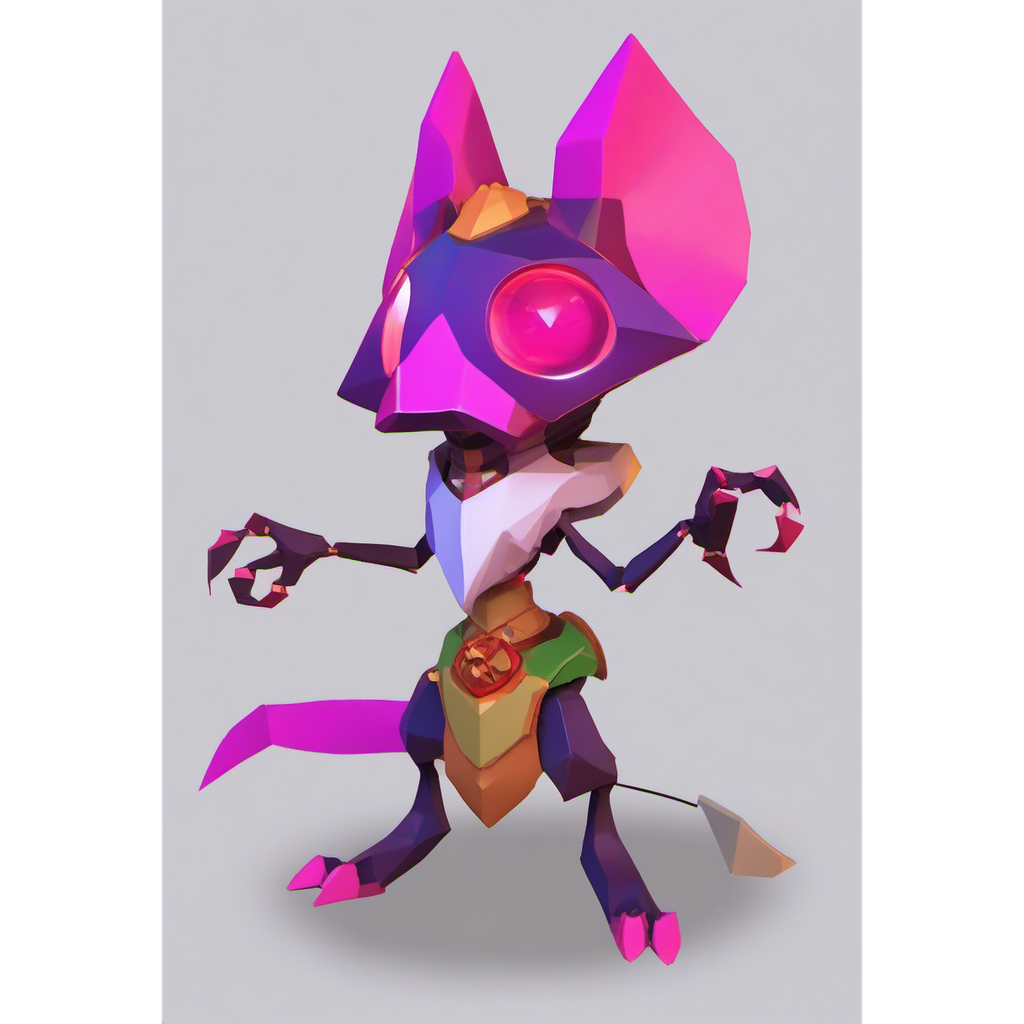
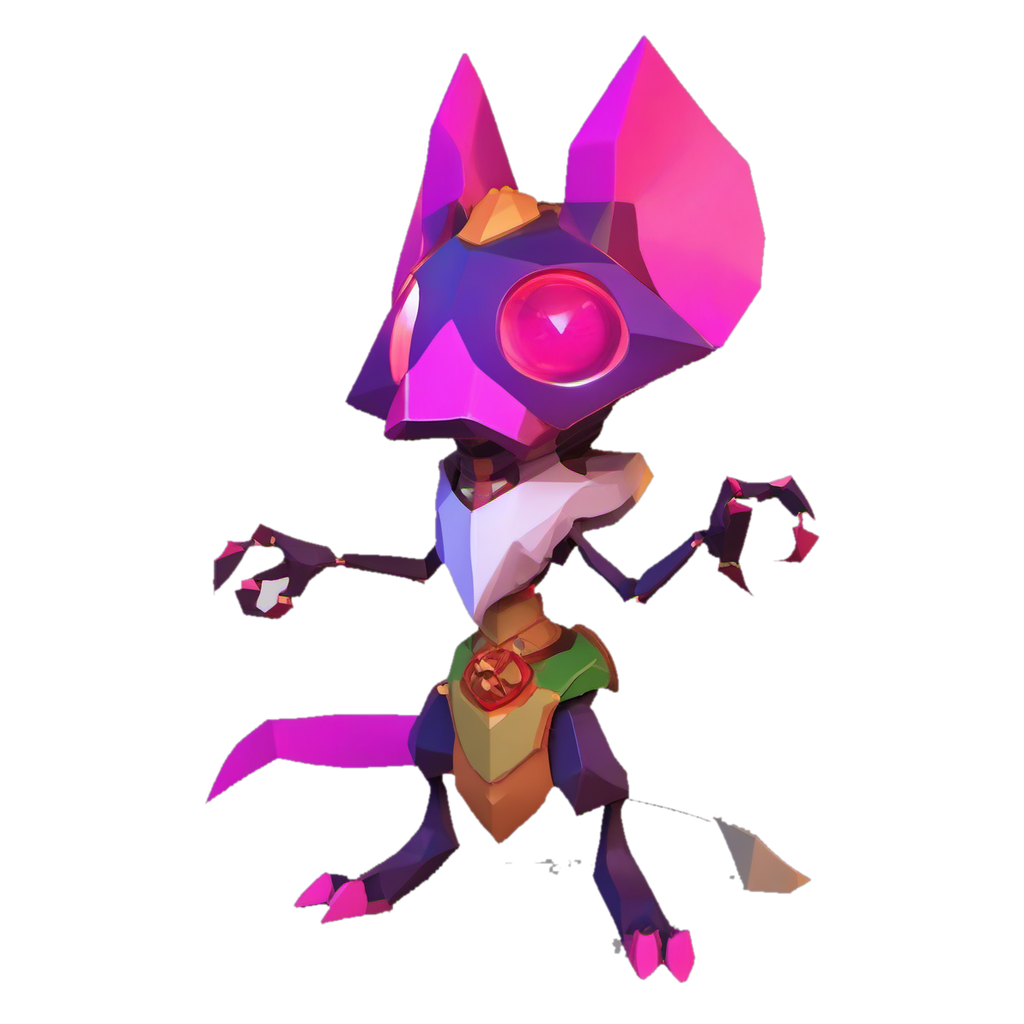
M13a: fix character sprite keying (green-slime, skeleton, goblins, bone-rat, red-slime, portrait) + tone corrupted-grass floor

diff --git a/Tools/AssetGeneration/generate_assets.py b/Tools/AssetGeneration/generate_assets.py
@@ -257,6 +257,13 @@ def alpha_key_smart(img: Image.Image) -> Image.Image:
     detail that doesn't reach the frame edge.
     """
     rgb = img.convert("RGB")
+    # NOTE: unioning the magenta + flat candidate masks BEFORE the border flood
+    # fills split backdrops better, but is too aggressive for DARK/low-saturation
+    # subjects (it walks the flood through a black silhouette and erases it, e.g.
+    # skeleton-archer). Keep the safe separate-mask OR: each candidate is
+    # border-connected independently, so this is strictly additive and never
+    # eats interior subject detail. Assets with a stubborn split/off-colour
+    # backdrop get a targeted per-asset key instead.
     magenta_mask = _border_connected_mask(_magenta_candidate_mask(rgb))
     flat_mask = _border_connected_mask(_flat_background_candidate_mask(rgb))
     bg_mask = magenta_mask | flat_mask

diff --git a/ASSET_MANIFEST.md b/ASSET_MANIFEST.md
@@ -4,43 +4,43 @@ Every generated asset: prompt, source file, target UE path, usage. Populated at 
 
 | Asset | Category | Status | QA | Prompt (short) | Source PNG | UE path | Used by |
 |---|---|---|---|---|---|---|---|
-| campfire-core | buildings | generated | - | a cozy stone-ringed campfire hub structure with warm ember glow, sm... | GeneratedAssets/staging/buildings/campfire-core.png | /Game/Emberbound/Generated/Buildings/T_CampfireCore | CampfireCore building billboard and camp building panel header |
-| expedition-portal | buildings | generated | - | a mystical stone archway portal crackling with soft ember-orange en... | GeneratedAssets/staging/buildings/expedition-portal.png | /Game/Emberbound/Generated/Buildings/T_ExpeditionPortal | Expedition portal billboard |
-| grim-forge | buildings | generated | - | a small dark-comedy blacksmith forge structure, glowing furnace, cr... | GeneratedAssets/staging/buildings/grim-forge.png | /Game/Emberbound/Generated/Buildings/T_GrimForge | Grim Forge camp building billboard and panel header |
-| monster-pen | buildings | generated | - | a rickety wooden fenced pen enclosure for captured small monsters, ... | GeneratedAssets/staging/buildings/monster-pen.png | /Game/Emberbound/Generated/Buildings/T_MonsterPen | Monster Pen camp building billboard and panel header |
-| ritual-circle | buildings | generated | - | a stone ritual circle platform with glowing ember runes etched into... | GeneratedAssets/staging/buildings/ritual-circle.png | /Game/Emberbound/Generated/Buildings/T_RitualCircle | Ritual Circle camp building billboard and panel header |
-| watchtower | buildings | generated | - | a small crooked wooden watchtower structure with a lookout platform... | GeneratedAssets/staging/buildings/watchtower.png | /Game/Emberbound/Generated/Buildings/T_Watchtower | Watchtower camp building billboard and panel header |
-| bone-rat | characters | generated | - | solo, one creature only, a small skeletal rat monster, bare bones h... | GeneratedAssets/staging/characters/bone-rat.png | /Game/Emberbound/Generated/Characters/T_BoneRat | BoneRat enemy billboard |
-| goblin-archer | characters | generated | - | solo single-pose full-body illustration, one figure only, of a scra... | GeneratedAssets/staging/characters/goblin-archer.png | /Game/Emberbound/Generated/Characters/T_GoblinArcher | GoblinArcher enemy billboard |
-| goblin-stabber | characters | generated | - | solo single-pose full-body illustration, one figure only, of a scra... | GeneratedAssets/staging/characters/goblin-stabber.png | /Game/Emberbound/Generated/Characters/T_GoblinStabber | GoblinStabber enemy billboard |
-| green-slime | characters | generated | - | solo, one creature only, a small round green jelly slime creature w... | GeneratedAssets/staging/characters/green-slime.png | /Game/Emberbound/Generated/Characters/T_GreenSlime | GreenSlime enemy billboard |
-| red-slime | characters | generated | - | solo, one creature only, a small round red jelly slime creature wit... | GeneratedAssets/staging/characters/red-slime.png | /Game/Emberbound/Generated/Characters/T_RedSlime | RedSlime enemy billboard |
-| rift-archer-full | characters | generated | - | solo single-pose full-body illustration, one figure only, of a youn... | GeneratedAssets/staging/characters/rift-archer-full.png | /Game/Emberbound/Generated/Characters/T_RiftArcherFull | Player character billboard |
-| rift-archer-portrait | characters | generated | - | solo close-up portrait bust, one figure only, of a young isekai her... | GeneratedAssets/staging/characters/rift-archer-portrait.png | /Game/Emberbound/Generated/Characters/T_RiftArcherPortrait | Run result header portrait |
-| skeleton-archer | characters | generated | - | solo single-pose full-body illustration, one figure only, of a lank... | GeneratedAssets/staging/characters/skeleton-archer.png | /Game/Emberbound/Generated/Characters/T_SkeletonArcher | Imported and verified; reserved for skeleton enemy content |
-| slime-companion | characters | generated | - | solo, one creature only, a small round translucent blue slime creat... | GeneratedAssets/staging/characters/slime-companion.png | /Game/Emberbound/Generated/Characters/T_SlimeCompanion | Companion slime actor sprite |
-| tutorial-dragon | characters | generated | - | solo, one creature only, a small chibi baby dragon mentor character... | GeneratedAssets/staging/characters/tutorial-dragon.png | /Game/Emberbound/Generated/Characters/T_TutorialDragon | Tutorial Dragon boss billboard |
-| camp-dirt | environment | generated | - | seamless tileable stylized packed dirt camp ground texture, low-pol... | GeneratedAssets/staging/environment/camp-dirt.png | /Game/Emberbound/Generated/Environment/T_CampDirt | Runtime camp dirt floor material instance |
-| corrupted-grass | environment | generated | - | seamless tileable stylized corrupted dark grass ground texture, low... | GeneratedAssets/staging/environment/corrupted-grass.png | /Game/Emberbound/Generated/Environment/T_CorruptedGrass | Runtime expedition floor material instance |
-| corruption-decal | environment | generated | - | seamless tileable stylized dark corruption ground decal texture, cr... | GeneratedAssets/staging/environment/corruption-decal.png | /Game/Emberbound/Generated/Environment/T_CorruptionDecal | M_Corruption_Decal texture parameter |
+| campfire-core | buildings | generated | - | a cozy stone-ringed campfire hub structure with warm ember glow, sm... | GeneratedAssets/staging/buildings/campfire-core.png | /Game/Emberbound/Generated/Buildings/T_CampfireCore | Camp building sprite/icon source texture |
+| expedition-portal | buildings | generated | - | a mystical stone archway portal crackling with soft ember-orange en... | GeneratedAssets/staging/buildings/expedition-portal.png | /Game/Emberbound/Generated/Buildings/T_ExpeditionPortal | Camp building sprite/icon source texture |
+| grim-forge | buildings | generated | - | a small dark-comedy blacksmith forge structure, glowing furnace, cr... | GeneratedAssets/staging/buildings/grim-forge.png | /Game/Emberbound/Generated/Buildings/T_GrimForge | Camp building sprite/icon source texture |
+| monster-pen | buildings | generated | - | a rickety wooden fenced pen enclosure for captured small monsters, ... | GeneratedAssets/staging/buildings/monster-pen.png | /Game/Emberbound/Generated/Buildings/T_MonsterPen | Camp building sprite/icon source texture |
+| ritual-circle | buildings | generated | - | a stone ritual circle platform with glowing ember runes etched into... | GeneratedAssets/staging/buildings/ritual-circle.png | /Game/Emberbound/Generated/Buildings/T_RitualCircle | Camp building sprite/icon source texture |
+| watchtower | buildings | generated | - | a small crooked wooden watchtower structure with a lookout platform... | GeneratedAssets/staging/buildings/watchtower.png | /Game/Emberbound/Generated/Buildings/T_Watchtower | Camp building sprite/icon source texture |
+| bone-rat | characters | generated | - | solo, one creature only, a small skeletal rat monster, bare bones h... | GeneratedAssets/staging/characters/bone-rat.png | /Game/Emberbound/Generated/Characters/T_BoneRat | Character billboard sprite / portrait source texture |
+| goblin-archer | characters | generated | - | solo single-pose full-body illustration, one figure only, of a scra... | GeneratedAssets/staging/characters/goblin-archer.png | /Game/Emberbound/Generated/Characters/T_GoblinArcher | Character billboard sprite / portrait source texture |
+| goblin-stabber | characters | generated | - | solo single-pose full-body illustration, one figure only, of a scra... | GeneratedAssets/staging/characters/goblin-stabber.png | /Game/Emberbound/Generated/Characters/T_GoblinStabber | Character billboard sprite / portrait source texture |
+| green-slime | characters | generated | - | a single cute chubby round slime creature, bright emerald grass-gre... | GeneratedAssets/staging/characters/green-slime.png | /Game/Emberbound/Generated/Characters/T_GreenSlime | Character billboard sprite / portrait source texture |
+| red-slime | characters | generated | - | solo, one creature only, a small round red jelly slime creature wit... | GeneratedAssets/staging/characters/red-slime.png | /Game/Emberbound/Generated/Characters/T_RedSlime | Character billboard sprite / portrait source texture |
+| rift-archer-full | characters | generated | - | solo single-pose full-body illustration, one figure only, of a youn... | GeneratedAssets/staging/characters/rift-archer-full.png | /Game/Emberbound/Generated/Characters/T_RiftArcherFull | Character billboard sprite / portrait source texture |
+| rift-archer-portrait | characters | generated | - | solo close-up portrait bust, one figure only, of a young isekai her... | GeneratedAssets/staging/characters/rift-archer-portrait.png | /Game/Emberbound/Generated/Characters/T_RiftArcherPortrait | Character billboard sprite / portrait source texture |
+| skeleton-archer | characters | generated | - | solo single-pose full-body illustration, one figure only, of a lank... | GeneratedAssets/staging/characters/skeleton-archer.png | /Game/Emberbound/Generated/Characters/T_SkeletonArcher | Character billboard sprite / portrait source texture |
+| slime-companion | characters | generated | - | solo, one creature only, a small round translucent blue slime creat... | GeneratedAssets/staging/characters/slime-companion.png | /Game/Emberbound/Generated/Characters/T_SlimeCompanion | Character billboard sprite / portrait source texture |
+| tutorial-dragon | characters | generated | - | solo, one creature only, a small chibi baby dragon mentor character... | GeneratedAssets/staging/characters/tutorial-dragon.png | /Game/Emberbound/Generated/Characters/T_TutorialDragon | Character billboard sprite / portrait source texture |
+| camp-dirt | environment | generated | - | seamless tileable stylized packed dirt camp ground texture, low-pol... | GeneratedAssets/staging/environment/camp-dirt.png | /Game/Emberbound/Generated/Environment/T_CampDirt | Tileable-ish ground/wall/decal texture |
+| corrupted-grass | environment | generated | - | seamless tileable stylized corrupted dark grass ground texture, low... | GeneratedAssets/staging/environment/corrupted-grass.png | /Game/Emberbound/Generated/Environment/T_CorruptedGrass | Tileable-ish ground/wall/decal texture |
+| corruption-decal | environment | generated | - | seamless tileable stylized dark corruption ground decal texture, cr... | GeneratedAssets/staging/environment/corruption-decal.png | /Game/Emberbound/Generated/Environment/T_CorruptionDecal | Tileable-ish ground/wall/decal texture |
 | firelight-glow | environment | generated | - | seamless tileable stylized warm ember firelight glow overlay textur... | GeneratedAssets/staging/environment/firelight-glow.png | /Game/Emberbound/Generated/Environment/T_FirelightGlow | Tileable-ish ground/wall/decal texture |
-| meadow-grass | environment | generated | - | seamless tileable stylized meadow grass ground texture, low-poly pa... | GeneratedAssets/staging/environment/meadow-grass.png | /Game/Emberbound/Generated/Environment/T_MeadowGrass | Runtime camp meadow floor material instance |
+| meadow-grass | environment | generated | - | seamless tileable stylized meadow grass ground texture, low-poly pa... | GeneratedAssets/staging/environment/meadow-grass.png | /Game/Emberbound/Generated/Environment/T_MeadowGrass | Tileable-ish ground/wall/decal texture |
 | room-wall | environment | generated | - | seamless tileable stylized stone dungeon room wall texture, low-pol... | GeneratedAssets/staging/environment/room-wall.png | /Game/Emberbound/Generated/Environment/T_RoomWall | Tileable-ish ground/wall/decal texture |
 | stone-path | environment | generated | - | seamless tileable stylized cobblestone path texture, low-poly paint... | GeneratedAssets/staging/environment/stone-path.png | /Game/Emberbound/Generated/Environment/T_StonePath | Tileable-ish ground/wall/decal texture |
-| main-splash | keyart | generated | - | wide cinematic key art of a weary isekai hero standing beside a mag... | GeneratedAssets/staging/keyart/main-splash.png | /Game/Emberbound/Generated/KeyArt/T_MainSplash | Boot splash widget background |
-| bow | ui-icons | generated | fixed | a simple wooden hunting bow icon, simple flat-shaded game icon | GeneratedAssets/staging/ui-icons/bow.png | /Game/Emberbound/Generated/UIIcons/T_Bow | Imported and verified; reserved for bow stat UI |
+| main-splash | keyart | generated | - | wide cinematic key art of a weary isekai hero standing beside a mag... | GeneratedAssets/staging/keyart/main-splash.png | /Game/Emberbound/Generated/KeyArt/T_MainSplash | Title screen / marketing key art |
+| bow | ui-icons | generated | fixed | a simple wooden hunting bow icon, simple flat-shaded game icon | GeneratedAssets/staging/ui-icons/bow.png | /Game/Emberbound/Generated/UIIcons/T_Bow | HUD resource/stat icon |
 | campfire | ui-icons | generated | regenerated | a small cozy campfire icon with warm flames, simple flat-shaded gam... | GeneratedAssets/staging/ui-icons/campfire.png | /Game/Emberbound/Generated/UIIcons/T_Campfire | HUD resource/stat icon |
-| defense-shield | ui-icons | generated | - | a small round wooden and metal shield icon, simple flat-shaded game... | GeneratedAssets/staging/ui-icons/defense-shield.png | /Game/Emberbound/Generated/UIIcons/T_DefenseShield | Imported and verified; reserved for defense UI |
-| embers | ui-icons | generated | regenerated | a small cluster of glowing warm embers icon, simple flat-shaded gam... | GeneratedAssets/staging/ui-icons/embers.png | /Game/Emberbound/Generated/UIIcons/T_Embers | Expedition HUD and camp HUD resource icon |
-| gold | ui-icons | generated | - | a shiny pile of gold coins icon, simple flat-shaded game icon | GeneratedAssets/staging/ui-icons/gold.png | /Game/Emberbound/Generated/UIIcons/T_Gold | Expedition HUD, camp HUD, and gold pickup fallback icon |
-| health | ui-icons | generated | - | a warm ember-red heart icon, simple flat-shaded game icon | GeneratedAssets/staging/ui-icons/health.png | /Game/Emberbound/Generated/UIIcons/T_Health | Expedition HUD health icon |
-| monster-essence | ui-icons | generated | - | a small glowing vial of monster essence icon, faint green-ember glo... | GeneratedAssets/staging/ui-icons/monster-essence.png | /Game/Emberbound/Generated/UIIcons/T_MonsterEssence | Camp HUD resource icon |
-| monster-shard | ui-icons | generated | regenerated | a small jagged glowing monster shard crystal icon, simple flat-shad... | GeneratedAssets/staging/ui-icons/monster-shard.png | /Game/Emberbound/Generated/UIIcons/T_MonsterShard | Imported and verified; reserved for monster shard UI |
-| reroll | ui-icons | generated | - | a pair of dice mid-roll icon, warm ember highlight, simple flat-sha... | GeneratedAssets/staging/ui-icons/reroll.png | /Game/Emberbound/Generated/UIIcons/T_Reroll | Imported and verified; reserved for upgrade reroll UI |
-| soul-ash | ui-icons | generated | - | a small glowing jar of soul ash icon, faint ember-purple wisps, sim... | GeneratedAssets/staging/ui-icons/soul-ash.png | /Game/Emberbound/Generated/UIIcons/T_SoulAsh | Expedition HUD and camp HUD resource icon |
-| title-badge | ui-icons | generated | - | an ornate ember-gold badge emblem icon, simple flat-shaded game icon | GeneratedAssets/staging/ui-icons/title-badge.png | /Game/Emberbound/Generated/UIIcons/T_TitleBadge | Imported and verified; reserved for title/badge UI |
-| wood | ui-icons | generated | regenerated | a small bundle of wooden logs icon, simple flat-shaded game icon | GeneratedAssets/staging/ui-icons/wood.png | /Game/Emberbound/Generated/UIIcons/T_Wood | Expedition HUD, camp HUD, and wood pickup fallback icon |
-| xp | ui-icons | generated | - | a glowing ember-gold star burst icon representing experience points... | GeneratedAssets/staging/ui-icons/xp.png | /Game/Emberbound/Generated/UIIcons/T_Xp | Expedition HUD XP icon |
+| defense-shield | ui-icons | generated | - | a small round wooden and metal shield icon, simple flat-shaded game... | GeneratedAssets/staging/ui-icons/defense-shield.png | /Game/Emberbound/Generated/UIIcons/T_DefenseShield | HUD resource/stat icon |
+| embers | ui-icons | generated | regenerated | a small cluster of glowing warm embers icon, simple flat-shaded gam... | GeneratedAssets/staging/ui-icons/embers.png | /Game/Emberbound/Generated/UIIcons/T_Embers | HUD resource/stat icon |
+| gold | ui-icons | generated | - | a shiny pile of gold coins icon, simple flat-shaded game icon | GeneratedAssets/staging/ui-icons/gold.png | /Game/Emberbound/Generated/UIIcons/T_Gold | HUD resource/stat icon |
+| health | ui-icons | generated | - | a warm ember-red heart icon, simple flat-shaded game icon | GeneratedAssets/staging/ui-icons/health.png | /Game/Emberbound/Generated/UIIcons/T_Health | HUD resource/stat icon |
+| monster-essence | ui-icons | generated | - | a small glowing vial of monster essence icon, faint green-ember glo... | GeneratedAssets/staging/ui-icons/monster-essence.png | /Game/Emberbound/Generated/UIIcons/T_MonsterEssence | HUD resource/stat icon |
+| monster-shard | ui-icons | generated | regenerated | a small jagged glowing monster shard crystal icon, simple flat-shad... | GeneratedAssets/staging/ui-icons/monster-shard.png | /Game/Emberbound/Generated/UIIcons/T_MonsterShard | HUD resource/stat icon |
+| reroll | ui-icons | generated | - | a pair of dice mid-roll icon, warm ember highlight, simple flat-sha... | GeneratedAssets/staging/ui-icons/reroll.png | /Game/Emberbound/Generated/UIIcons/T_Reroll | HUD resource/stat icon |
+| soul-ash | ui-icons | generated | - | a small glowing jar of soul ash icon, faint ember-purple wisps, sim... | GeneratedAssets/staging/ui-icons/soul-ash.png | /Game/Emberbound/Generated/UIIcons/T_SoulAsh | HUD resource/stat icon |
+| title-badge | ui-icons | generated | - | an ornate ember-gold badge emblem icon, simple flat-shaded game icon | GeneratedAssets/staging/ui-icons/title-badge.png | /Game/Emberbound/Generated/UIIcons/T_TitleBadge | HUD resource/stat icon |
+| wood | ui-icons | generated | regenerated | a small bundle of wooden logs icon, simple flat-shaded game icon | GeneratedAssets/staging/ui-icons/wood.png | /Game/Emberbound/Generated/UIIcons/T_Wood | HUD resource/stat icon |
+| xp | ui-icons | generated | - | a glowing ember-gold star burst icon representing experience points... | GeneratedAssets/staging/ui-icons/xp.png | /Game/Emberbound/Generated/UIIcons/T_Xp | HUD resource/stat icon |
 | bone-shield | upgrade-icons | generated | fixed | an icon of a small shield made of bound bones, simple flat-shaded g... | GeneratedAssets/staging/upgrade-icons/bone-shield.png | /Game/Emberbound/Generated/UpgradeIcons/T_BoneShield | Upgrade card icon |
 | companion-slime | upgrade-icons | generated | - | an icon of a small cute jelly slime face, simple flat-shaded game icon | GeneratedAssets/staging/upgrade-icons/companion-slime.png | /Game/Emberbound/Generated/UpgradeIcons/T_CompanionSlime | Upgrade card icon |
 | crit-focus | upgrade-icons | generated | - | an icon of a glowing target reticle with ember highlight, simple fl... | GeneratedAssets/staging/upgrade-icons/crit-focus.png | /Game/Emberbound/Generated/UpgradeIcons/T_CritFocus | Upgrade card icon |
@@ -56,18 +56,17 @@ Every generated asset: prompt, source file, target UE path, usage. Populated at 
 | ricochet-shot | upgrade-icons | generated | regenerated | an icon of an arrow bouncing between angled lines, simple flat-shad... | GeneratedAssets/staging/upgrade-icons/ricochet-shot.png | /Game/Emberbound/Generated/UpgradeIcons/T_RicochetShot | Upgrade card icon |
 | soul-flame-trail | upgrade-icons | generated | regenerated | an icon of a wispy ember-purple flame trail swirl, simple flat-shad... | GeneratedAssets/staging/upgrade-icons/soul-flame-trail.png | /Game/Emberbound/Generated/UpgradeIcons/T_SoulFlameTrail | Upgrade card icon |
 | split-shot | upgrade-icons | generated | - | an icon of three arrows splitting apart in a fan pattern, simple fl... | GeneratedAssets/staging/upgrade-icons/split-shot.png | /Game/Emberbound/Generated/UpgradeIcons/T_SplitShot | Upgrade card icon |
-| arrow-projectile | vfx | generated | - | a single glowing wooden arrow projectile sprite, motion streak, sid... | GeneratedAssets/staging/vfx/arrow-projectile.png | /Game/Emberbound/Generated/VFX/T_ArrowProjectile | Player projectile billboard |
+| arrow-projectile | vfx | generated | - | a single glowing wooden arrow projectile sprite, motion streak, sid... | GeneratedAssets/staging/vfx/arrow-projectile.png | /Game/Emberbound/Generated/VFX/T_ArrowProjectile | VFX sprite (projectile/impact/pickup) source texture |
 | boss-telegraph | vfx | generated | regenerated | a glowing ember-red warning telegraph ring sprite on the ground, om... | GeneratedAssets/staging/vfx/boss-telegraph.png | /Game/Emberbound/Generated/VFX/T_BossTelegraph | VFX sprite (projectile/impact/pickup) source texture |
-| campfire-flame | vfx | generated | fixed | a small isolated warm campfire flame sprite, flickering ember tongues | GeneratedAssets/staging/vfx/campfire-flame.png | /Game/Emberbound/Generated/VFX/T_CampfireFlame | Campfire flame material and quad |
+| campfire-flame | vfx | generated | fixed | a small isolated warm campfire flame sprite, flickering ember tongues | GeneratedAssets/staging/vfx/campfire-flame.png | /Game/Emberbound/Generated/VFX/T_CampfireFlame | VFX sprite (projectile/impact/pickup) source texture |
 | death-puff | vfx | generated | - | a soft grey-purple smoke puff death effect sprite, dissipating cloud | GeneratedAssets/staging/vfx/death-puff.png | /Game/Emberbound/Generated/VFX/T_DeathPuff | VFX sprite (projectile/impact/pickup) source texture |
-| fire-projectile | vfx | generated | - | a glowing ember fireball projectile sprite with flame trail, side view | GeneratedAssets/staging/vfx/fire-projectile.png | /Game/Emberbound/Generated/VFX/T_FireProjectile | Enemy/boss projectile billboard |
+| fire-projectile | vfx | generated | - | a glowing ember fireball projectile sprite with flame trail, side view | GeneratedAssets/staging/vfx/fire-projectile.png | /Game/Emberbound/Generated/VFX/T_FireProjectile | VFX sprite (projectile/impact/pickup) source texture |
 | frost-impact | vfx | generated | - | a shattering icy blue frost impact burst sprite, crystal shards | GeneratedAssets/staging/vfx/frost-impact.png | /Game/Emberbound/Generated/VFX/T_FrostImpact | VFX sprite (projectile/impact/pickup) source texture |
-| gold-pickup | vfx | generated | fixed | a small glowing gold coin sparkle pickup sprite, shiny burst | GeneratedAssets/staging/vfx/gold-pickup.png | /Game/Emberbound/Generated/VFX/T_GoldPickup | Gold pickup billboard |
+| gold-pickup | vfx | generated | fixed | a small glowing gold coin sparkle pickup sprite, shiny burst | GeneratedAssets/staging/vfx/gold-pickup.png | /Game/Emberbound/Generated/VFX/T_GoldPickup | VFX sprite (projectile/impact/pickup) source texture |
 | hit-spark | vfx | generated | regenerated | a sharp warm ember-white hit spark burst sprite, impact flash | GeneratedAssets/staging/vfx/hit-spark.png | /Game/Emberbound/Generated/VFX/T_HitSpark | VFX sprite (projectile/impact/pickup) source texture |
 | poison-impact | vfx | generated | - | a splattering green poison impact burst sprite, glowing droplets | GeneratedAssets/staging/vfx/poison-impact.png | /Game/Emberbound/Generated/VFX/T_PoisonImpact | VFX sprite (projectile/impact/pickup) source texture |
-| soul-ash-pickup | vfx | generated | - | a small glowing ember-purple soul ash wisp pickup sprite, swirling ... | GeneratedAssets/staging/vfx/soul-ash-pickup.png | /Game/Emberbound/Generated/VFX/T_SoulAshPickup | Soul ash pickup billboard |
+| soul-ash-pickup | vfx | generated | - | a small glowing ember-purple soul ash wisp pickup sprite, swirling ... | GeneratedAssets/staging/vfx/soul-ash-pickup.png | /Game/Emberbound/Generated/VFX/T_SoulAshPickup | VFX sprite (projectile/impact/pickup) source texture |
 
 ## Generation status log
-- 2026-07-08T06:55:40Z: batch run via `generate_assets.py` against checkpoint `sd_xl_base_1.0.safetensors`. 62 generated, 0 procedural fallback, 0 failed out of 62 total assets. Full run log / timings: `Docs/orchestration/M5a_report.md`.
+- 2026-07-09T00:58:49Z: batch run via `generate_assets.py` against checkpoint `sd_xl_base_1.0.safetensors`. 62 generated, 0 procedural fallback, 0 failed out of 62 total assets. Full run log / timings: `Docs/orchestration/M5a_report.md`.
 - QA fix pass (M5a QA notes): 6 asset(s) re-keyed only (`qa_status: fixed`), 8 asset(s) regenerated via ComfyUI with a stronger composition prompt (`qa_status: regenerated`). Details: `Docs/orchestration/M5a_report.md#qa-pass`.
-- M5b import/wiring pass: 62 texture assets imported, 10 generated material/material-instance assets created, all 15 upgrade data assets assigned generated icons. Runtime wiring details and verification are in `Docs/orchestration/M5b_report.md`.
